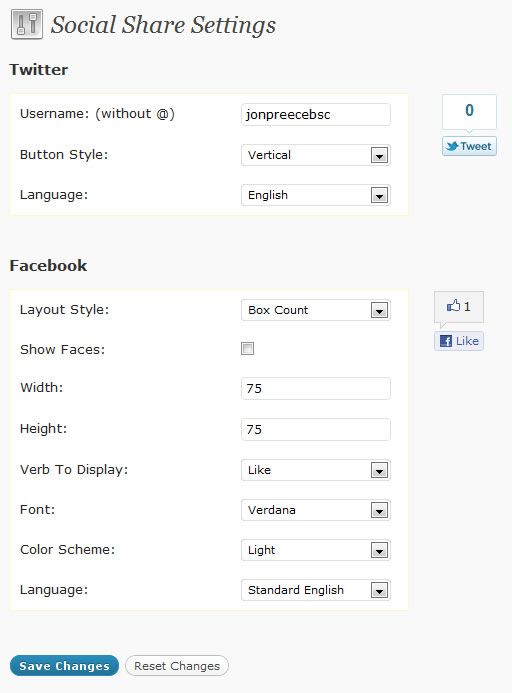
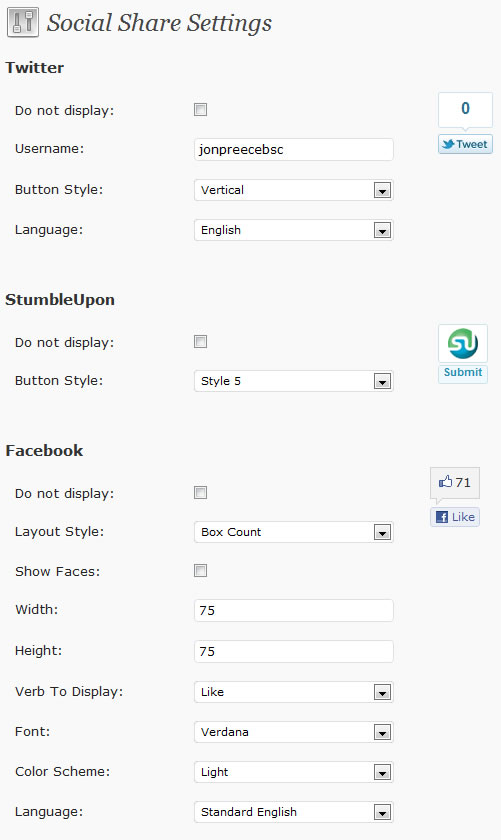
Added StumbleUpon Added ability to switch off individual share buttons
git-svn-id: https://plugins.svn.wordpress.org/social-share/trunk@329886 b8457f37-d9ea-0310-8a92-e5e31aec5664

diff --git a/Script.js b/Script.js
@@ -1,4 +1,4 @@
-setTimeout('UpdateFacebook()', 1000);
+setTimeout('UpdateFacebook(), UpdateStumbleUpon()', 1000);
 
 function UpdateTwitter()
 {   
@@ -15,6 +15,22 @@ function UpdateTwitter()
 	var doc = twitterIFrame.contentDocument;
     if (doc == undefined || doc == null)
         doc = twitterIFrame.contentWindow.document;
+    
+	doc.open();
+    doc.write(src);
+    doc.close(); 
+}
+
+function UpdateStumbleUpon()
+{   
+	var stumbleuponIFrame = document.getElementById('stumbleuponIFrame');	
+	var style = document.getElementById('socialshare-stumbleStyle').value;
+		
+	var src = 	'<script src="http://www.stumbleupon.com/hostedbadge.php?s='+style+'&r=http://www.jpreece.com"></script>';
+									
+	var doc = stumbleuponIFrame.contentDocument;
+    if (doc == undefined || doc == null)
+        doc = stumbleuponIFrame.contentWindow.document;
     
 	doc.open();
     doc.write(src);

diff --git a/Styles.css b/Styles.css
@@ -1,6 +1,6 @@
 .socialshare-widget
 {
-	width:150px;
+	width:195px;
 	margin-left:auto;
 	margin-right:auto;
 	height:80px;
@@ -8,7 +8,13 @@
 
 .socialshare-twitter
 {
-	width:75px;
+	width:60px;
+	float:left;
+}
+
+.socialshare-stumbleupon
+{
+	width:60px;
 	float:left;
 }
 

diff --git a/SocialShare.php b/SocialShare.php
@@ -2,9 +2,9 @@
 /*
 Plugin Name: Social Share
 Plugin URI: http://www.jpreece.com/
-Description: Simple sharing widget for Facebook and Twitter
+Description: Simple sharing widget for various social networking sites, such as Facebook and Twitter
 Author: Jon Preece
-Version: 1.0
+Version: 1.1
 Author URI: http://www.jpreece.com/
 */
 
@@ -14,36 +14,63 @@ function widget_DisplayShareLinks()
 		<div class="socialshare-widget">
 			<!-- Twitter -->
 			<div class="socialshare-twitter">
-				<a href="http://twitter.com/share" class="twitter-share-button" data-lang="<?php echo get_option('socialshare-twitterlanguage'); ?>" data-count="<?php echo get_option('socialshare-buttonstyle'); ?>" data-via="<?php echo get_option('socialshare-twitterUsername'); ?>">Tweet</a>
-				<script type="text/javascript" src="http://platform.twitter.com/widgets.js"></script>
+			
+			<?php
+				$displayTwitter = get_option('socialshare-displaytwitter');
+				
+				if ($displayTwitter == "")
+				{
+					echo '<a href="http://twitter.com/share" class="twitter-share-button" data-lang="'.get_option("socialshare-twitterlanguage").'" data-count="'.get_option("socialshare-buttonstyle").'" data-via="'.get_option("socialshare-twitterUsername").'">Tweet</a>';
+					echo '<script type="text/javascript" src="http://platform.twitter.com/widgets.js"></script>';	
+				}					
+			?>
+			</div>
+			
+			<!-- StumbleUpon -->
+			<div class="socialshare-stumbleupon">
+			
+			<?php
+				$displayStumbleupon = get_option('socialshare-displayStumbleupon');
+				$style = get_option('socialshare-stumbleStyle');
+				
+				if ($displayStumbleupon == "")
+				{
+					echo '<script src="http://www.stumbleupon.com/hostedbadge.php?s='.$style.'&r='."http://".$_SERVER['HTTP_HOST'].$_SERVER['REQUEST_URI'].'"></script>';
+				}					
+			?>
 			</div>
 			
 			<!-- Facebook -->
-			<?php			
-				$width = get_option('socialshare-width');
+			<?php	
+				$displayFacebook = get_option('socialshare-displayfacebook');
 				
-				echo '<div class="socialshare-facebook" style="width:'.$width.'px;">';
-			
-				echo '<iframe src="http://www.facebook.com/plugins/like.php?href=';
-				echo "http://".$_SERVER['HTTP_HOST'].$_SERVER['REQUEST_URI'];
+				if ($displayFacebook == "")
+				{
+					$width = get_option('socialshare-width');
+					
+					echo '<div class="socialshare-facebook" style="width:'.$width.'px;">';
 				
-				$layout = get_option('socialshare-layout');
-				
-				$showfaces = get_option('socialshare-showfaces');
-				if ($showfaces == "on" || $showfaces == "true")
-					$showfaces = "true";
-				else
-					$showfaces = "false";
-				
-				$width = get_option('socialshare-width');
-				$height = get_option('socialshare-height');
-				$action = get_option('socialshare-action');
-				$font = get_option('socialshare-font');
-				$colorscheme = get_option('socialshare-colorscheme');
-				$fblanguage = get_option('socialshare-facebooklanguage');
-				
-				echo '&layout='.$layout.'&show_faces='.$showfaces.'&width='.$width.'&action='.$action.'&font='.$font.'&colorscheme='.$colorscheme.'&height='.$height.'&locale='.$fblanguage.'"';
-				echo 'scrolling="no" frameborder="0" style="width:'.$width.'px; height:'.$height.'px;"></iframe>';
+					echo '<iframe src="http://www.facebook.com/plugins/like.php?href=';
+					echo "http://".$_SERVER['HTTP_HOST'].$_SERVER['REQUEST_URI'];
+					
+					$layout = get_option('socialshare-layout');
+					
+					$showfaces = get_option('socialshare-showfaces');
+					if ($showfaces == "on" || $showfaces == "true")
+						$showfaces = "true";
+					else
+						$showfaces = "false";
+					
+					$width = get_option('socialshare-width');
+					$height = get_option('socialshare-height');
+					$action = get_option('socialshare-action');
+					$font = get_option('socialshare-font');
+					$colorscheme = get_option('socialshare-colorscheme');
+					$fblanguage = get_option('socialshare-facebooklanguage');
+					
+					echo '&layout='.$layout.'&show_faces='.$showfaces.'&width='.$width.'&action='.$action.'&font='.$font.'&colorscheme='.$colorscheme.'&height='.$height.'&locale='.$fblanguage.'"';
+					echo 'scrolling="no" frameborder="0" style="width:'.$width.'px; height:'.$height.'px;"></iframe>';
+				}
 			?>
 			</div>
 		</div>
@@ -77,21 +104,36 @@ function LayoutSettingsForm()
 		<form method="post" action="options.php">
 		<?php wp_nonce_field('update-options'); ?>
 		<input type="hidden" name="action" value="update" />
-		<input type="hidden" name="page_options" value="socialshare-twitterUsername,socialshare-buttonstyle,socialshare-twitterlanguage,socialshare-layout,socialshare-showfaces,socialshare-width,socialshare-height,socialshare-action,socialshare-font,socialshare-colorscheme,socialshare-facebooklanguage" />
+		<input type="hidden" name="page_options" value="socialshare-displaytwitter,socialshare-twitterUsername,socialshare-buttonstyle,socialshare-twitterlanguage,socialshare-displayfacebook,socialshare-layout,socialshare-showfaces,socialshare-width,socialshare-height,socialshare-action,socialshare-font,socialshare-colorscheme,socialshare-facebooklanguage,socialshare-displayStumbleupon,socialshare-stumbleStyle,socialshare-displayDigg,socialshare-diggStyle" />
 		
 		<div style="float:left">
 			<h3>Twitter</h3>
-			<table class="form-table" style="background-color:#fff; margin-bottom:25px; width:400px; border:1px solid #FFF8C6">
+			<table class="form-table" style="margin-bottom:25px; width:400px;">
 				<tr>
-					<th scope="row">Username: (without @)</th>
+					<th scope="row">Do not display:</th>
 					<td>
-						<input type="text" name="socialshare-twitterUsername" id="socialshare-twitterUsername" value="<?php echo get_option('socialshare-twitterUsername'); ?>" style="width:150px" onchange="UpdateTwitter()" />
+						<?php
+							$displayTwitter = get_option('socialshare-displaytwitter');		
+							$checked = "";
+							if ($displayTwitter == "on" || $displayTwitter == "true")
+								$checked = "checked";
+							else
+								$checked = "";
+							
+							echo '<input type="checkbox" name="socialshare-displaytwitter" id="socialshare-displaytwitter" '.$checked.' />';
+						?>
+					</td>
+				</tr>
+				<tr>
+					<th scope="row">Username:</th>
+					<td>
+						<input type="text" name="socialshare-twitterUsername" id="socialshare-twitterUsername" value="<?php echo get_option('socialshare-twitterUsername'); ?>" style="width:200px" onchange="UpdateTwitter()" />
 					</td>
 				</tr>
 				<tr>
 					<th scope="row">Button Style:</th>
 					<td>
-						<select name="socialshare-buttonstyle" id="socialshare-buttonstyle" style="width:150px" onchange="UpdateTwitter()">						
+						<select name="socialshare-buttonstyle" id="socialshare-buttonstyle" style="width:200px" onchange="UpdateTwitter()">						
 						<?php						
 							$buttonStyle = get_option('socialshare-buttonstyle');
 							$options = array (1=>array('vertical','Vertical'),2=>array('horizontal','Horizontal'),3=>array('none','None'));							
@@ -110,7 +152,7 @@ function LayoutSettingsForm()
 				<tr>
 					<th scope="row">Language:</th>
 					<td>
-						<select name="socialshare-twitterlanguage" id="socialshare-twitterlanguage" style="width:150px" onchange="UpdateTwitter()">
+						<select name="socialshare-twitterlanguage" id="socialshare-twitterlanguage" style="width:200px" onchange="UpdateTwitter()">
 						<?php
 							$language = get_option('socialshare-twitterlanguage');
 							$options = array(1=>array('en','English'), 2=>array('fr','French'),3=>array('de','German'),4=>array('es','Spanish'),5=>array('ja','Japanese'));
@@ -128,17 +170,75 @@ function LayoutSettingsForm()
 				</tr>
 			</table>
 		</div>
-		<div style="float:right; margin-top:41px; width:225px; height:75px">
+		<div style="float:right; margin-top:41px; width:225px; height:60px">
 			<iframe id="twitterIFrame" onload="UpdateTwitter()"></iframe>
 		</div>
 		
 		<div style="float:left">
+			<h3>StumbleUpon</h3>
+			<table class="form-table" style="margin-bottom:25px; width:400px;">
+				<tr>
+					<th scope="row">Do not display:</th>
+					<td>
+						<?php
+							$displayStumbleupon = get_option('socialshare-displayStumbleupon');		
+							$checked = "";
+							if ($displayStumbleupon == "on" || $displayStumbleupon == "true")
+								$checked = "checked";
+							else
+								$checked = "";
+							
+							echo '<input type="checkbox" name="socialshare-displayStumbleupon" id="socialshare-displayStumbleupon" '.$checked.' />';
+						?>
+					</td>
+				</tr>
+				<tr>
+					<th scope="row">Button Style:</th>
+					<td>
+						<select name="socialshare-stumbleStyle" id="socialshare-stumbleStyle" style="width:200px" onchange="UpdateStumbleUpon()">						
+						<?php						
+							$buttonStyle = get_option('socialshare-stumbleStyle');
+							$options = array (1=>array('1','Style 1'),2=>array('2','Style 2'),3=>array('3','Style 3'),4=>array('4','Style 4'),5=>array('5', 'Style 5'), 6=>array('6', 'Style 6'));							
+							
+							foreach($options as $index => $value)
+							{
+								echo '<option value="'.$value[0].'"';
+								if ($value[0] == $buttonStyle)
+									echo ' selected';
+								echo '>'.$value[1].'</option>';
+							}
+						?>
+						</select>
+					</td>
+				</tr>
+			</table>
+		</div>
+		<div style="float:right; margin-top:41px; width:225px; height:60px">
+			<iframe id="stumbleuponIFrame"></iframe>
+		</div>
+		
+		<div style="float:left">
 			<h3>Facebook</h3>
-			<table class="form-table" style="background-color:#fff; margin-bottom:25px; width:400px; border:1px solid #FFF8C6">
+			<table class="form-table" style="margin-bottom:25px; width:400px;">
+				<tr>
+					<th scope="row">Do not display:</th>
+					<td>
+						<?php
+							$displayFacebook = get_option('socialshare-displayfacebook');
+							$checked = "";
+							if ($displayFacebook == "on" || $displayFacebook == "true")
+								$checked = "checked";
+							else
+								$checked = "";
+							
+							echo '<input type="checkbox" name="socialshare-displayfacebook" id="socialshare-displayfacebook" '.$checked.' />';
+						?>
+					</td>
+				</tr>
 				<tr>
 					<th scope="row">Layout Style:</th>
 					<td>
-						<select id="socialshare-layout" name="socialshare-layout" style="width:150px" onchange="UpdateFacebook()">
+						<select id="socialshare-layout" name="socialshare-layout" style="width:200px" onchange="UpdateFacebook()">
 						<?php
 							$layout = get_option('socialshare-layout');
 							$options = array(1=>array('standard','Standard'),2=>array('button_count','Button Count'),3=>array('box_count','Box Count'));
@@ -176,7 +276,7 @@ function LayoutSettingsForm()
 							if ($width == "")
 								$width="75";
 							
-							echo '<input type="text" name="socialshare-width" id="socialshare-width" value="'.$width.'" style="width:150px" onchange="UpdateFacebook()" />';
+							echo '<input type="text" name="socialshare-width" id="socialshare-width" value="'.$width.'" style="width:200px" onchange="UpdateFacebook()" />';
 						?>
 					</td>
 				</tr>
@@ -188,14 +288,14 @@ function LayoutSettingsForm()
 							if ($height == "")
 								$height="75";
 								
-							echo '<input type="text" name="socialshare-height" id="socialshare-height" value="'.$height.'" style="width:150px" onchange="UpdateFacebook()" />';
+							echo '<input type="text" name="socialshare-height" id="socialshare-height" value="'.$height.'" style="width:200px" onchange="UpdateFacebook()" />';
 						?>
 					</td>
 				</tr>
 				<tr>
 					<th scope="row">Verb To Display:</th>
 					<td>
-						<select name="socialshare-action" id="socialshare-action" style="width:150px" onchange="UpdateFacebook()">
+						<select name="socialshare-action" id="socialshare-action" style="width:200px" onchange="UpdateFacebook()">
 						
 						<?php
 							$action = get_option('socialshare-action');
@@ -215,7 +315,7 @@ function LayoutSettingsForm()
 				<tr>
 					<th scope="row">Font:</th>
 					<td>
-						<select name="socialshare-font" id="socialshare-font" style="width:150px" onchange="UpdateFacebook()">
+						<select name="socialshare-font" id="socialshare-font" style="width:200px" onchange="UpdateFacebook()">
 							
 							<?php
 								$font = get_option('socialshare-font');
@@ -235,7 +335,7 @@ function LayoutSettingsForm()
 				<tr>
 					<th scope="row">Color Scheme:</th>
 					<td>
-						<select name="socialshare-colorscheme" id="socialshare-colorscheme" style="width:150px" onchange="UpdateFacebook()">
+						<select name="socialshare-colorscheme" id="socialshare-colorscheme" style="width:200px" onchange="UpdateFacebook()">
 							
 							<?php
 								$colorscheme = get_option('socialshare-colorscheme');
@@ -256,7 +356,7 @@ function LayoutSettingsForm()
 				<tr>
 					<th scope="row">Language:</th>
 					<td>
-						<select name="socialshare-facebooklanguage" id="socialshare-facebooklanguage" style="width:150px" onchange="UpdateFacebook()">
+						<select name="socialshare-facebooklanguage" id="socialshare-facebooklanguage" style="width:200px" onchange="UpdateFacebook()">
 						
 						<?php
 						
@@ -283,7 +383,7 @@ function LayoutSettingsForm()
 			</p>			
 		</div>
 		
-		<div style="float:right; margin-top:50px; width:225px; height:150px">
+		<div style="float:right; margin-top:41px; width:225px; height:60px">
 			<iframe src="http://www.facebook.com/plugins/like.php?href=http%3A%2F%2Fwww.jpreece.com%2F&amp;layout=standard&amp;show_faces=false&amp;width=225&amp;action=like&amp;colorscheme=light&amp;height=150" scrolling="no" frameborder="0" style="border:none; overflow:hidden; width:225px; height:150px;" allowTransparency="true" id="facebookIFrame"></iframe>
 		</div>
 		
@@ -294,7 +394,7 @@ function LayoutSettingsForm()
 		<h3>Support</h3>
 		<p>For support, contact us direct;</p>
 		<p>&nbsp;</p>
-		<p>Website: <a href="http://www.jpreece.com/">jpreece.com</a></p>
+		<p>Website: <a href="http://www.jpreece.com/contact/">jpreece.com</a></p>
 		<p>Twitter: <a href="http://twitter.com/jonpreecebsc">@jonpreecebsc</a></p>
 		<p>&nbsp;</p>
 		<p>Please help us continue development.</p>
@@ -309,9 +409,7 @@ function share_warning()
 	$twitterUsername = get_option('socialshare-twitterUsername');
 	if ($twitterUsername == "")
 	{
-		echo "
-		<div id='share-warning' class='updated fade'><p><strong>".__('Social Share needs configuring.')."</strong> ".sprintf(__('You must <a href="%1$s">enter your Twitter username</a> for the plugin to work properly.'), "options-general.php?page=socialshare")."</p></div>
-		";
+		echo "<div id='share-warning' class='updated fade'><p><strong>".__('Social Share needs configuring.')."</strong> ".sprintf(__('You must <a href="%1$s">enter your Twitter username</a> for the plugin to work properly.'), "options-general.php?page=socialshare")."</p></div>";
 	}
 }
 
@@ -334,8 +432,10 @@ function DisplayPaypalButton()
 
 function LoadJavaScript()
 {	
+	wp_register_script('socialshare-diggscript', 'http://widgets.digg.com/buttons.js');
+	wp_enqueue_script('socialshare-diggscript');
 	wp_register_script('socialshare-script', WP_PLUGIN_URL . '/SocialShare/Script.js');
-	wp_enqueue_script('socialshare-script');	
+	wp_enqueue_script('socialshare-script');
 }  
 
 function LoadCSS()
